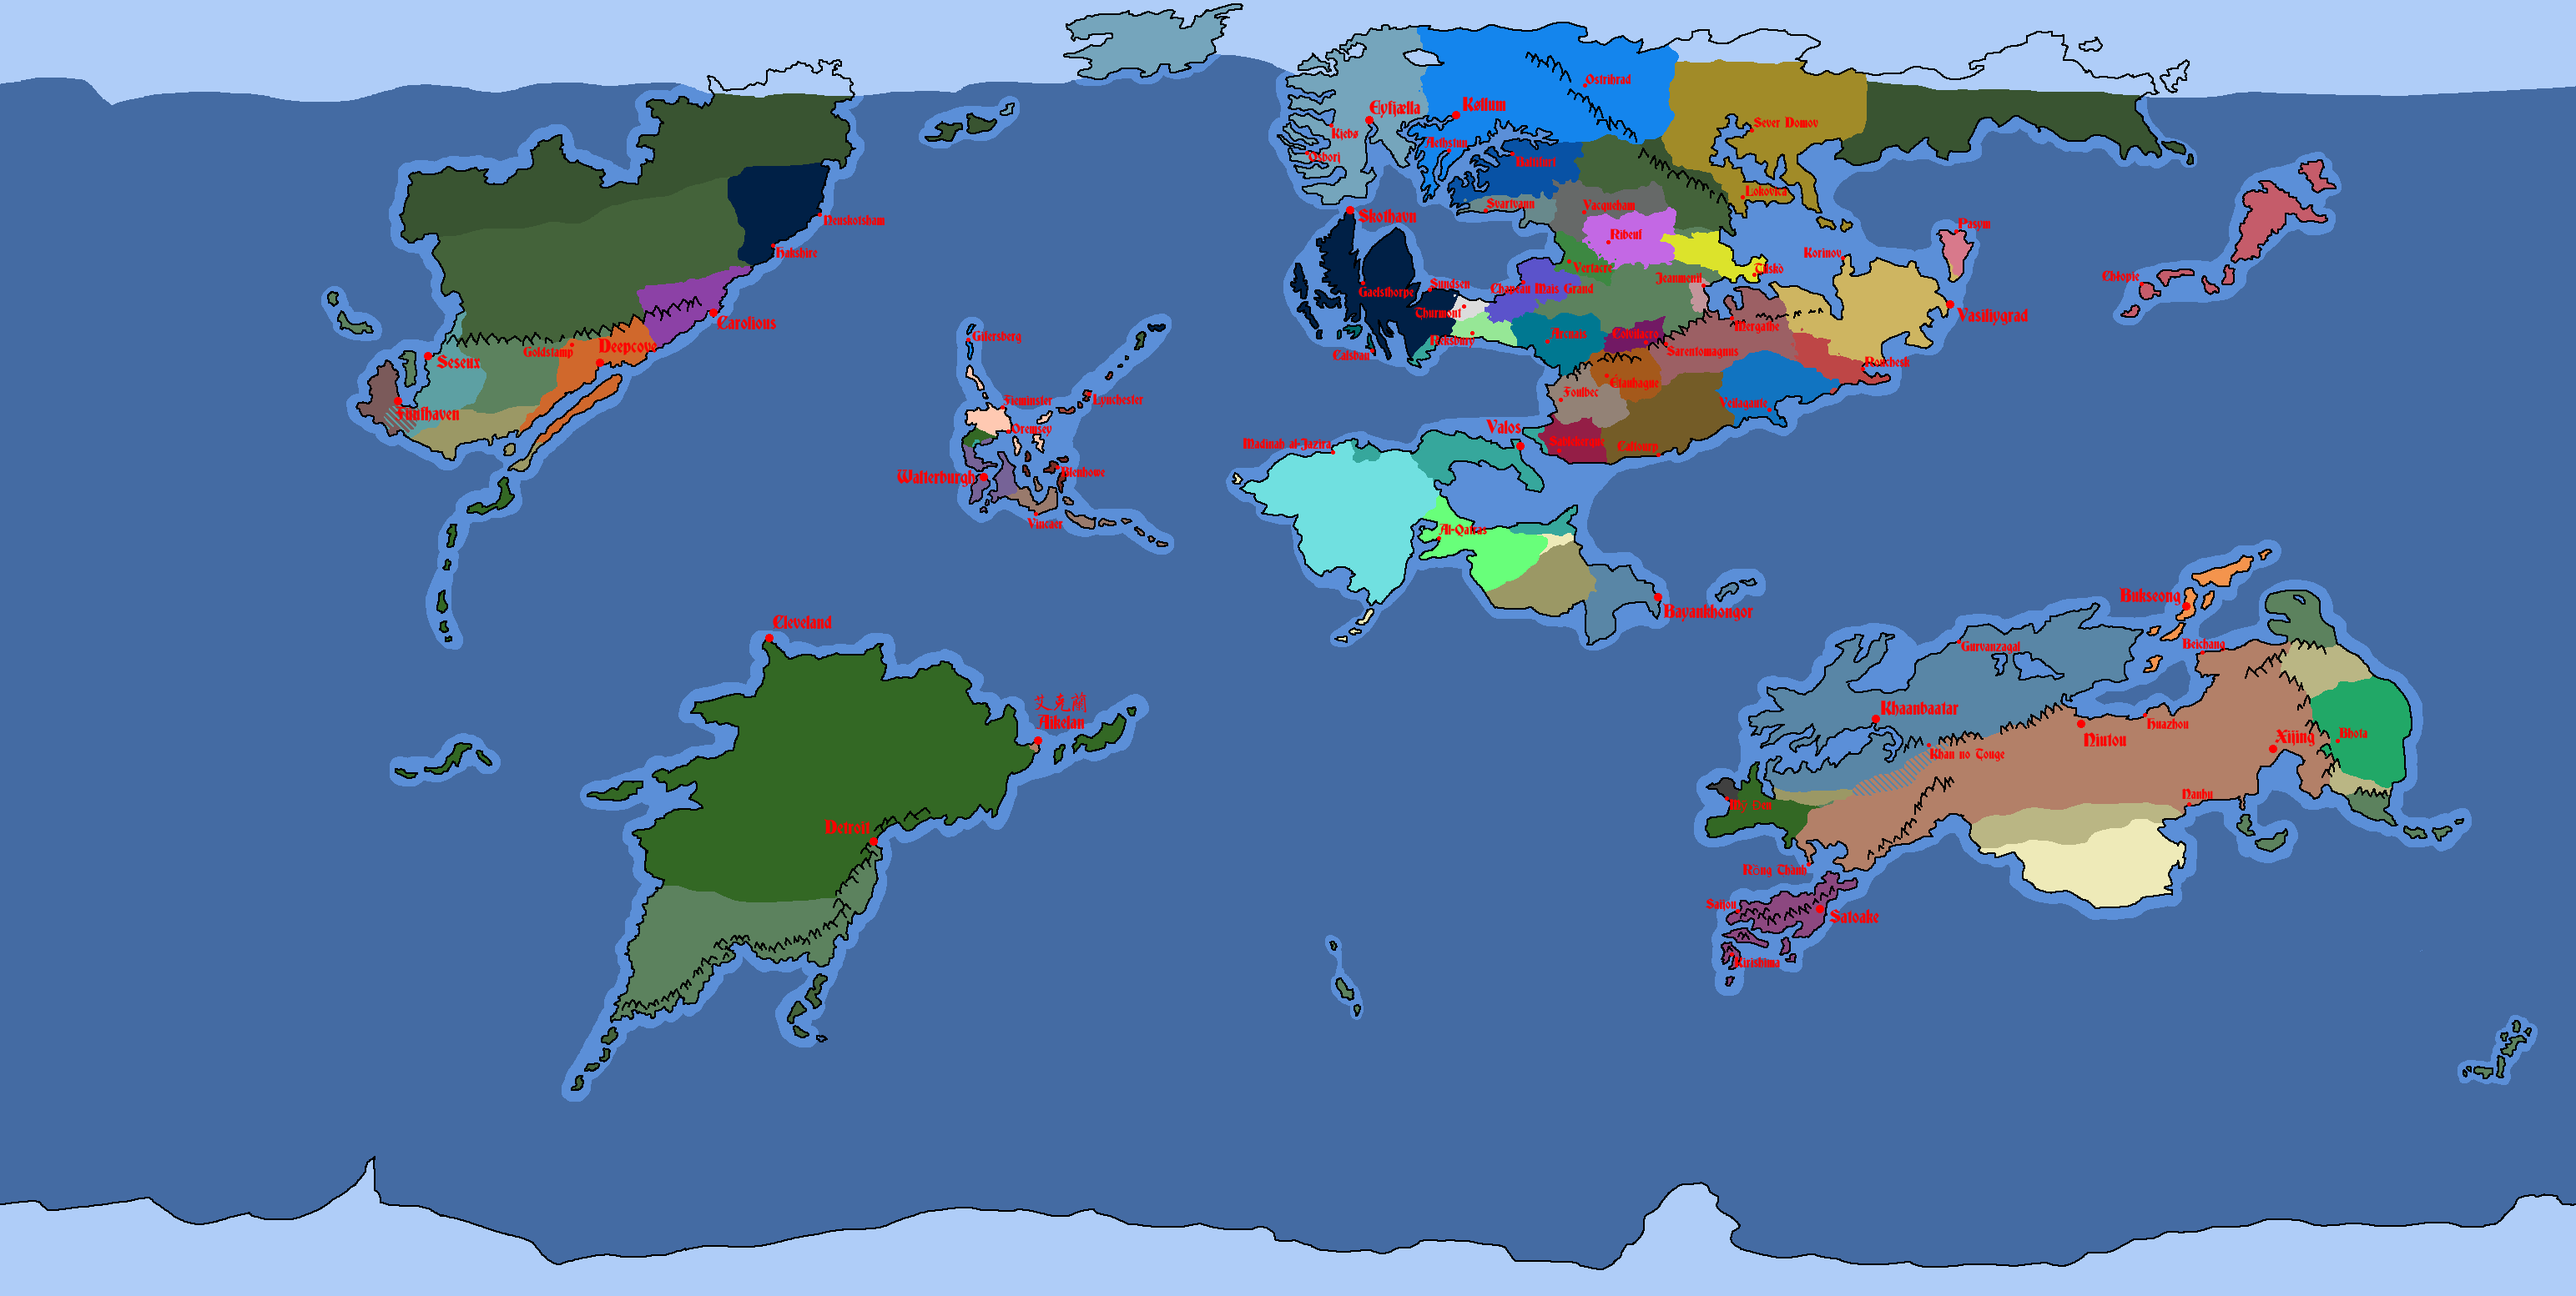
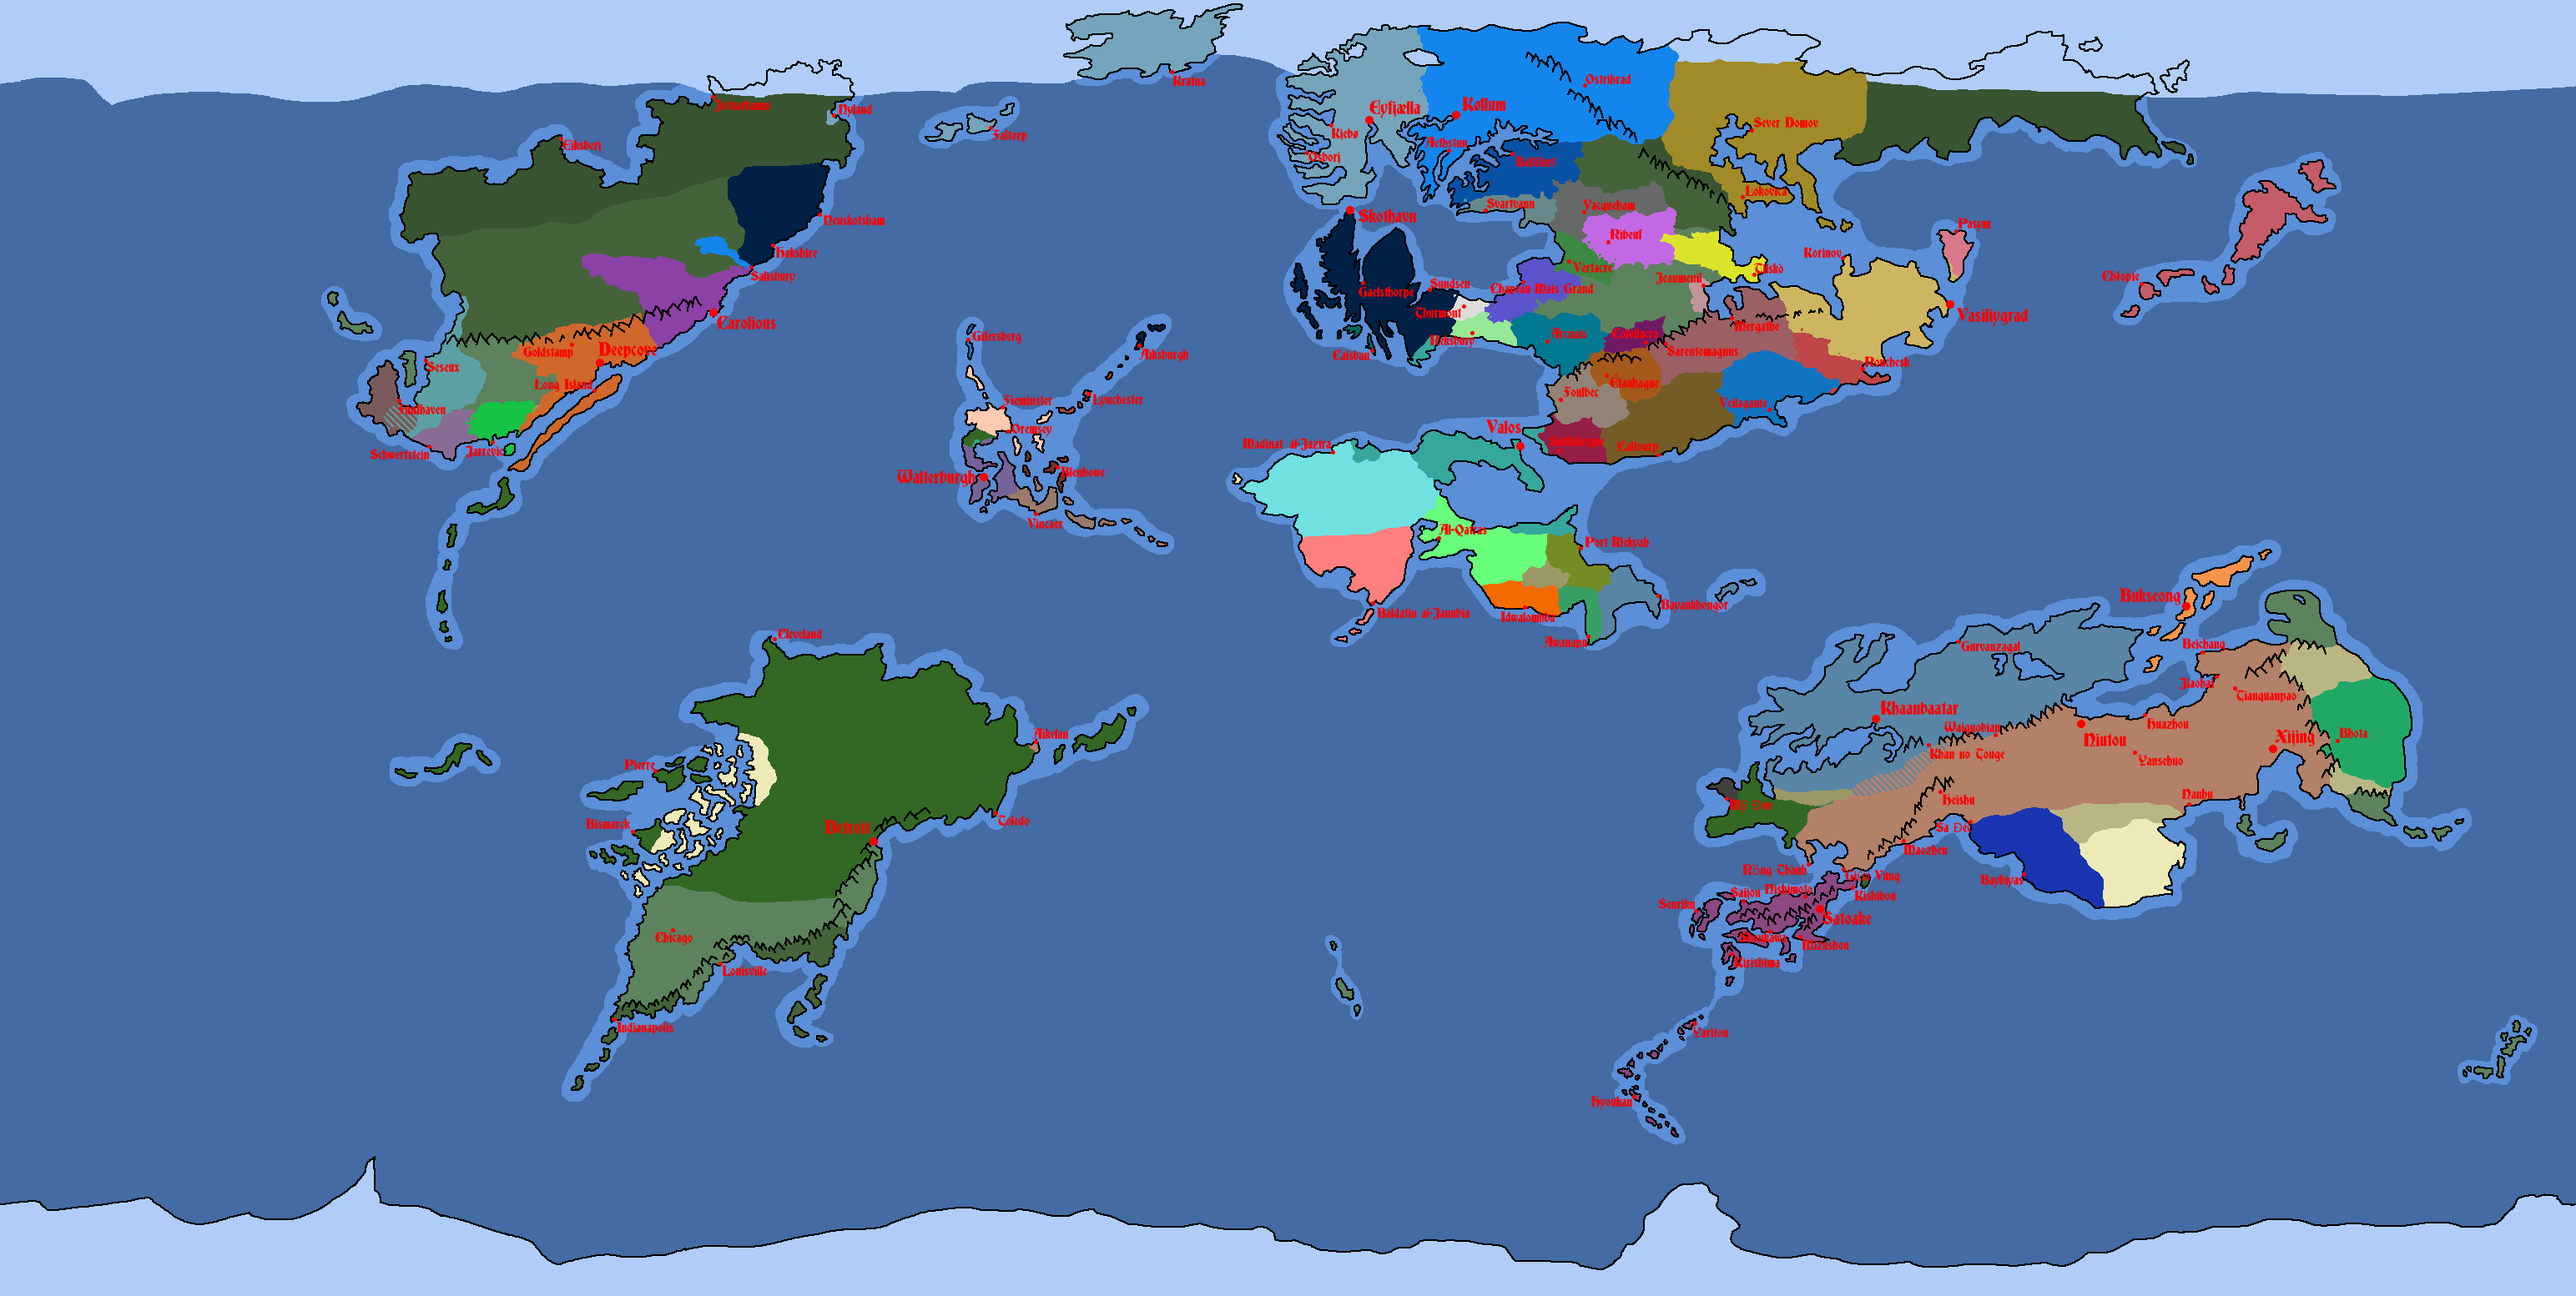
general site update, mostly for the wm world

diff --git a/index.html b/index.html
@@ -75,10 +75,9 @@
 							<br>Most of us are focusing on our studies or actual jobs, so chances are you won't see much updates here.
 							<br>
 							Our current projects are-
-							<br>> Project Razorbill
-							<br>> An Unnamed Tower Defense
-							<br>> The Great Plague
+							<br>> Project Razorbill [DELTA]
 							<br>> NavCom: Naval Combat
+							<br>> "DONGFANG PROJECT"
 						</p>
 					</div> <!-- .cd-project-info -->
 				</li>
@@ -112,10 +111,26 @@
 						<p>
 							The successor to the old "BallengerEarth"/"TuscaroraEarth" projects, the WM World is aimed to act as a D&D world for the KCWOWS Discord Server, constantly changing and evolving.
 							<br>Currently has 7 parties running throughout it, with two more possibly on the way.
-							<br>The WM World focuses, at the moment, on two main periods: the Age of Winds, with the majority of parties working around the year 1008 KY, and the Ring Era, circa 1678 KY.
+							<br>The WM World focuses, at the moment, on two main periods: <b>the Age of Winds</b>, with the majority of parties working around the year 1008 KY, and <b>the Ring Era</b>, circa 1678 KY.
+							<br><!--		I can't, for the love of god, figure out how to get <i> and <b> working.				-->
+							<br><a href="img/wmmap.png"><img src="img/wmmap.png" style="width:900px;"></a>
+							<br><i>The map of the world in 1007 KY, est. 9/11/2020 (click to see full image)</i>
 							<br>
-							<br><img src="img/wmmap.png" style="width:900px;">
-							<br>The map of the world, est. 8/28/2020 (right click and open for full image)
+							<br><a href="img/wmpartymap.png"><img src="img/wmpartymap.png" style="width:900px;"></a>
+							<br><i>The map of the varying parties that have been around this world, est. 12/2/2020</i>
+							<br>
+							<br><img src="img/obsplash.png" style="width: 900px;">
+							<br><i>Original image by Asteroid Ill (<a href="https://twitter.com/asteroid_ill">Twitter</a> / <a href="https://www.pixiv.net/en/users/2033916">Pixiv</a>)</i>
+							<br>
+							<br><img src="img/shttbsplash.png" style="width: 900px;">
+							<br><i><a href="https://www.pixiv.net/en/artworks/80491198">Original image</a> by Xilmo (<a href="https://twitter.com/xilmo_o">Twitter</a> / <a href="https://www.pixiv.net/en/users/19389056">Pixiv</a>)</i>
+							<br>
+							<br><img src="img/shttdsplash.png" style="width: 900px;">
+							<br><i><a href="https://www.pixiv.net/en/artworks/80491198">Original image</a> by Sakeharasu (<a href="https://koba10212110.wixsite.com/sake">Site</a> / <a href="https://twitter.com/hunwaritoast">Twitter</a> / <a href="https://www.pixiv.net/en/artworks/72331879">Pixiv</a>)</i>
+							<br>
+							<br><a href="img/funfhaven.png"><img src="img/funfhaven.png" style="width: 900px;"></a>
+							<br><i>A map of Fünfhaven during 'the Boys Enter the Boogaloo' campaign, circa 1008 KY.</i>
+
 						</p>
 					</div> <!-- .cd-project-info -->
 				</li>

diff --git a/css/style.css b/css/style.css
@@ -3,9 +3,6 @@
 Primary style
 
 -------------------------------- */
-*, *::after, *::before {
-  box-sizing: border-box;
-}
 
 html {
   font-size: 62.5%;
@@ -13,14 +10,9 @@ html {
 }
 
 body {
-  font-size: 1.6rem;
+  font-size: 12pt;
   color: #1c1d1f;
   background-color: #bad3fc;
-}
-
-a {
-  color: #1c1d1f;
-  text-decoration: none;
 }
 
 /* --------------------------------
@@ -760,28 +752,4 @@ li.selected .cd-project-title,
   .cd-primary-nav a {
     font-size: 4rem;
   }
-}
-
-/* --------------------------------
-
-JavaScript Disabled
-
--------------------------------- */
-.no-js .cd-primary-nav {
-  display: block;
-  position: static;
-  opacity: 1;
-  margin-bottom: 1.5em;
-}
-.no-js .cd-primary-nav ul {
-  display: block;
-  padding: 0 5%;
-}
-.no-js .cd-primary-nav ul::after {
-  clear: both;
-  content: "";
-  display: table;
-}
-.no-js .cd-primary-nav li:not(.cd-label) {
-  display: inline-block;
 }
